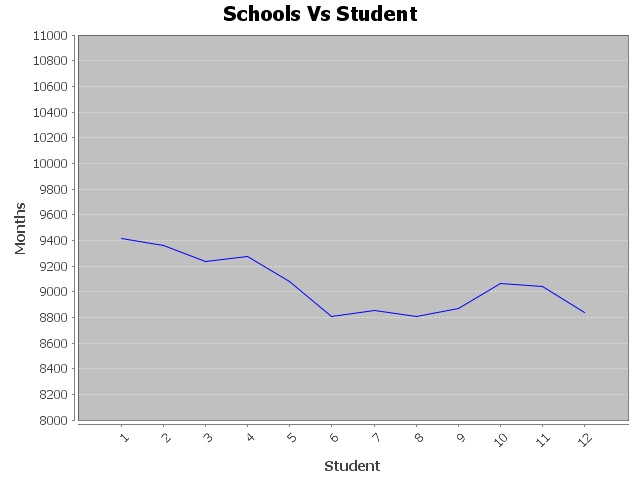
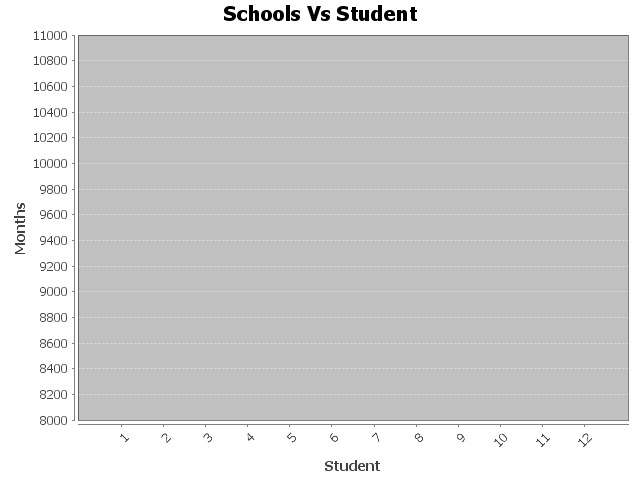
change range in value

diff --git a/src/main/java/com/chart/LineChartImage.java b/src/main/java/com/chart/LineChartImage.java
@@ -26,18 +26,18 @@ public class LineChartImage {
 	public static void main( String[ ] args ) throws Exception {
 		try {
 			DefaultCategoryDataset line_chart_dataset = new DefaultCategoryDataset();
-			line_chart_dataset.addValue(9416.84143028, "", "1");
-			line_chart_dataset.addValue(9360.93285419, "", "2");
-			line_chart_dataset.addValue(9237.2885082, "", "3");
-			line_chart_dataset.addValue(9270.28833524, "", "4");
-			line_chart_dataset.addValue(9080.23484518, "", "5");
-			line_chart_dataset.addValue(8809.37777299, "", "6");
-			line_chart_dataset.addValue(8850.27817187, "", "7");
-			line_chart_dataset.addValue(8810.32693886, "", "8");
-			line_chart_dataset.addValue(8871.36137352, "", "9");
-			line_chart_dataset.addValue(9063.41018917, "", "10");
-			line_chart_dataset.addValue(9039.03073176, "", "11");
-			line_chart_dataset.addValue(8835.53660028, "", "12");
+			line_chart_dataset.addValue(941, "", "1");
+            line_chart_dataset.addValue(936, "", "2");
+            line_chart_dataset.addValue(923, "", "3");
+            line_chart_dataset.addValue(927, "", "4");
+            line_chart_dataset.addValue(908, "", "5");
+            line_chart_dataset.addValue(880, "", "6");
+            line_chart_dataset.addValue(885, "", "7");
+            line_chart_dataset.addValue(881, "", "8");
+            line_chart_dataset.addValue(887, "", "9");
+            line_chart_dataset.addValue(906, "", "10");
+            line_chart_dataset.addValue(903, "", "11");
+            line_chart_dataset.addValue(883, "", "12");
 
 
 
